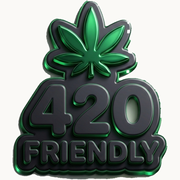
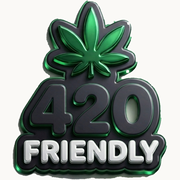
Swap in the white-lettering emblem
Replaces the brand mark with the new render. Same emblem family, but
FRIENDLY is now white rather than charcoal, which reads considerably
better at chrome scale where the previous dark-on-dark lettering was the
first thing to dissolve.

The background came away on the first pass with no halo and no notches —
the white letters sit inside the silhouette, so the border flood fill
cannot reach them and connectivity protects them without special
handling.

Re-exported all four assets from the one cutout: logo.webp for the
chrome, logo-lg.webp for the hero, and both favicons. The intrinsic
width/height on the header and hero img tags are updated to the new
aspect ratio — left stale they would have reserved the wrong box and
shifted the layout while the logo loads.

diff --git a/420-friendly/index.html b/420-friendly/index.html
@@ -27,7 +27,7 @@
          silently cancelled the centring translate when they shared an element. -->
     <div class="absolute right-[3%] md:right-[7%] top-[6%] md:top-1/2 md:-translate-y-1/2
                 pointer-events-none select-none">
-      <img src="assets/logo-lg.webp" alt="" aria-hidden="true" width="657" height="760" fetchpriority="high"
+      <img src="assets/logo-lg.webp" alt="" aria-hidden="true" width="655" height="760" fetchpriority="high"
            class="hero-emblem h-[32vh] md:h-[58vh] w-auto max-w-[42vw]"/>
     </div>
     <div class="absolute bottom-0 left-0 p-margin-mobile md:p-margin-desktop max-w-3xl">

diff --git a/420-friendly/assets/app.js b/420-friendly/assets/app.js
@@ -240,7 +240,7 @@ function brandBadgeHTML(heightClass) {
   return (
     '<img src="' + LOGO_SRC + '" alt="" aria-hidden="true" ' +
     'class="brand-emblem ' + heightClass + ' w-auto shrink-0" ' +
-    'width="259" height="300" decoding="async"/>'
+    'width="258" height="300" decoding="async"/>'
   );
 }
 
